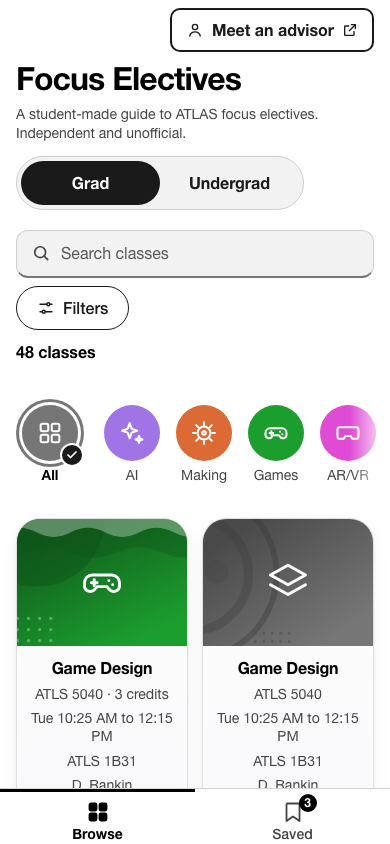
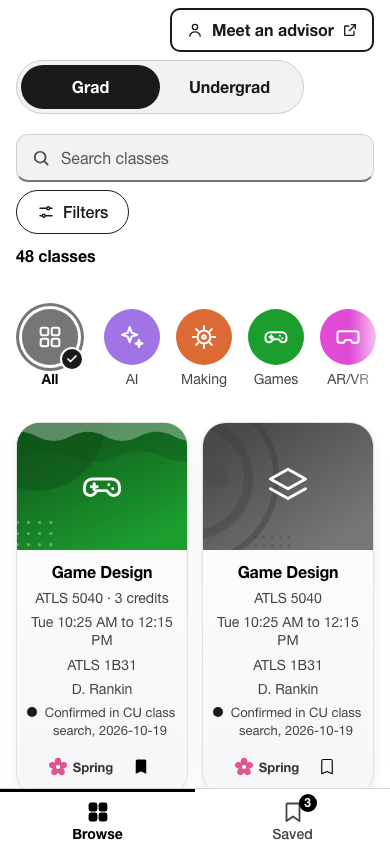
Remove title, tagline, feedback and about

diff --git a/src/app/App.tsx b/src/app/App.tsx
@@ -3550,9 +3550,12 @@ function parseRoute(): Route {
 
 const ABOUT_TEXT = APP_COPY.aboutText;
 
+// The feedback form's address, or '' while the link is switched off (semester.showFeedbackLink).
+const feedbackUrl = () => (semester.showFeedbackLink ? semester.feedbackFormUrl.trim() : '');
+
 function AboutPage() {
   const isMobile = useWindowWidth() < 640;
-  const feedback = semester.feedbackFormUrl.trim();
+  const feedback = feedbackUrl();
   return (
     <motion.div initial={{ opacity:0 }} animate={{ opacity:1 }} exit={{ opacity:0 }} transition={{ duration:0.25 }}>
       <h1 style={{ margin:0, fontSize:isMobile ? 32 : 40, fontWeight:700, letterSpacing:'-0.03em', lineHeight:1.15, color:'#000' }}>About</h1>
@@ -3583,15 +3586,20 @@ function NotFoundPage({ message }: { message: string }) {
 }
 
 function SiteFooter({ isMobile, hideChecked = false }: { isMobile: boolean; hideChecked?: boolean }) {
-  const feedback = semester.feedbackFormUrl.trim();
+  const feedback = feedbackUrl();
+  const showLinks = !!feedback || semester.showAboutLink;
+  const note = semester.showFooterDisclaimer ? APP_COPY.footerDisclaimer : '';
+  const hasContent = !!note || showLinks || !hideChecked; // an empty footer keeps its spacing but draws no line
   const small = { display:'inline-flex', alignItems:'center', justifyContent:'center', gap:4, minHeight:44, minWidth:44, padding:0, border:0, borderRadius:0, background:'none', color:'#444', fontSize:14, fontWeight:500, textDecoration:'underline', textUnderlineOffset:3 } as const;
   return (
-    <footer style={{ margin:isMobile ? '0 16px' : `0 ${SPACING.pagePx}px`, padding:isMobile ? `24px 0 calc(${BAR_H} + 88px)` : '24px 0 96px', borderTop:'1px solid #E0E0E0', display:'flex', flexDirection:'column', gap:4, maxWidth:'70ch' }}>
-      <p style={{ margin:0, fontSize:14, lineHeight:1.4, color:'#444' }}>{APP_COPY.footerDisclaimer}</p>
-      <div style={{ display:'flex', flexWrap:'wrap', alignItems:'center', columnGap:20 }}>
-        {feedback && <ExternalAction href={feedback} sr="(opens in a new tab)" style={small}>Give feedback</ExternalAction>}
-        <AppLink to="#/about" style={small}>About</AppLink>
-      </div>
+    <footer style={{ margin:isMobile ? '0 16px' : `0 ${SPACING.pagePx}px`, padding:isMobile ? `24px 0 calc(${BAR_H} + 88px)` : '24px 0 96px', borderTop:hasContent ? '1px solid #E0E0E0' : 'none', display:'flex', flexDirection:'column', gap:4, maxWidth:'70ch' }}>
+      {note && <p style={{ margin:0, fontSize:14, lineHeight:1.4, color:'#444' }}>{note}</p>}
+      {showLinks && (
+        <div style={{ display:'flex', flexWrap:'wrap', alignItems:'center', columnGap:20 }}>
+          {feedback && <ExternalAction href={feedback} sr="(opens in a new tab)" style={small}>Give feedback</ExternalAction>}
+          {semester.showAboutLink && <AppLink to="#/about" style={small}>About</AppLink>}
+        </div>
+      )}
       {!hideChecked && <span style={{ fontSize:14, lineHeight:1.4, color:'#444' }}>Data last checked: {formatDate(semester.dataLastChecked)}</span>}
     </footer>
   );
@@ -4171,9 +4179,10 @@ export default function App() {
                 {/* Header */}
                 <div style={{ display:'flex', flexDirection:isMobile?'column':'row', alignItems:'flex-start', justifyContent:isMobile?'flex-start':'space-between', gap:isMobile?16:0, marginBottom:isMobile?12:SPACING.headingMb }}>
                   <div style={{ width:'100%' }}>
-                    <h1 style={{ fontSize:isMobile?32:40, fontWeight:700, letterSpacing:'-0.03em', color:'#000', margin:0, lineHeight:1.15 }}>{APP_NAME}</h1>
-                    <p style={{ margin:'8px 0 0', fontSize:14, lineHeight:1.4, color:'#444', maxWidth:'62ch' }}>{APP_COPY.tagline}</p>
-                    <div style={{ marginTop:12 }}><ModeToggle mode={mode} onChange={chooseMode} /></div>
+                    {/* The title is visually hidden but stays in the page as the h1 for screen readers (semester.showHomeTitle brings it back). */}
+                    <h1 className={semester.showHomeTitle ? undefined : 'sr-only'} style={semester.showHomeTitle ? { fontSize:isMobile?32:40, fontWeight:700, letterSpacing:'-0.03em', color:'#000', margin:0, lineHeight:1.15 } : undefined}>{APP_NAME}</h1>
+                    {semester.showTagline && <p style={{ margin:'8px 0 0', fontSize:14, lineHeight:1.4, color:'#444', maxWidth:'62ch' }}>{APP_COPY.tagline}</p>}
+                    <div style={semester.showHomeTitle || semester.showTagline ? { marginTop:12 } : undefined}><ModeToggle mode={mode} onChange={chooseMode} /></div>
                   </div>
                 </div>
 

diff --git a/src/app/config/semester.ts b/src/app/config/semester.ts
@@ -57,8 +57,18 @@ interface SemesterSettings {
   advisorCardClassNote: string;
   /** The short label on the header's advisor button (same booking address). */
   advisorHeaderLabel: string;
-  /** Address of your feedback form. The footer's "Give feedback" link appears once this is filled in. */
+  /** Address of your feedback form. The "Give feedback" link (footer and About page) shows it when showFeedbackLink is on. */
   feedbackFormUrl: string;
+  /** Show the app name as the visible title on Home. Off: the h1 stays in the page for screen readers only (visually hidden). */
+  showHomeTitle: boolean;
+  /** Show the tagline under the Home title (APP_COPY.tagline in src/core/config.ts). */
+  showTagline: boolean;
+  /** Show the footer line (APP_COPY.footerDisclaimer in src/core/config.ts). */
+  showFooterDisclaimer: boolean;
+  /** Show the About link in the footer. The About page and the #/about address stay in place either way. */
+  showAboutLink: boolean;
+  /** Show the "Give feedback" link in the footer and on the About page. Needs feedbackFormUrl. */
+  showFeedbackLink: boolean;
 }
 
 export const semester: SemesterSettings = {
@@ -83,6 +93,11 @@ export const semester: SemesterSettings = {
   advisorCardClassNote: 'This one may need checking.',
   advisorHeaderLabel: 'Meet an advisor',
   feedbackFormUrl: 'https://forms.gle/wdVvYTLZjv5w3z4U8',
+  showHomeTitle: false,
+  showTagline: false,
+  showFooterDisclaimer: false,
+  showAboutLink: false,
+  showFeedbackLink: false,
 };
 
 /** True once classSearchTermCode is set, meaning CU has posted nextTermName. */
